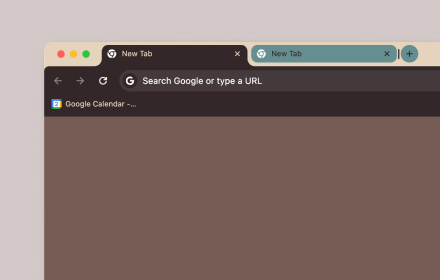
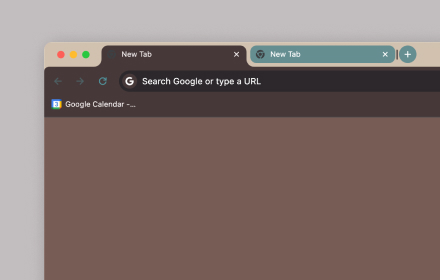
テーマ Mumei｜色調整、画像更新

diff --git a/README.md b/README.md
@@ -31,3 +31,4 @@
 22. [AZKi Color](https://chromewebstore.google.com/detail/azki-color/daceepebebnbhgpdemhofalkjgibojag)
 23. [Watame Color](https://chromewebstore.google.com/detail/watame-color/lpbbjfpdgijjamfiikhcdgchmjjihebo)
 24. Haato Color
+25. Mumei2 Color
